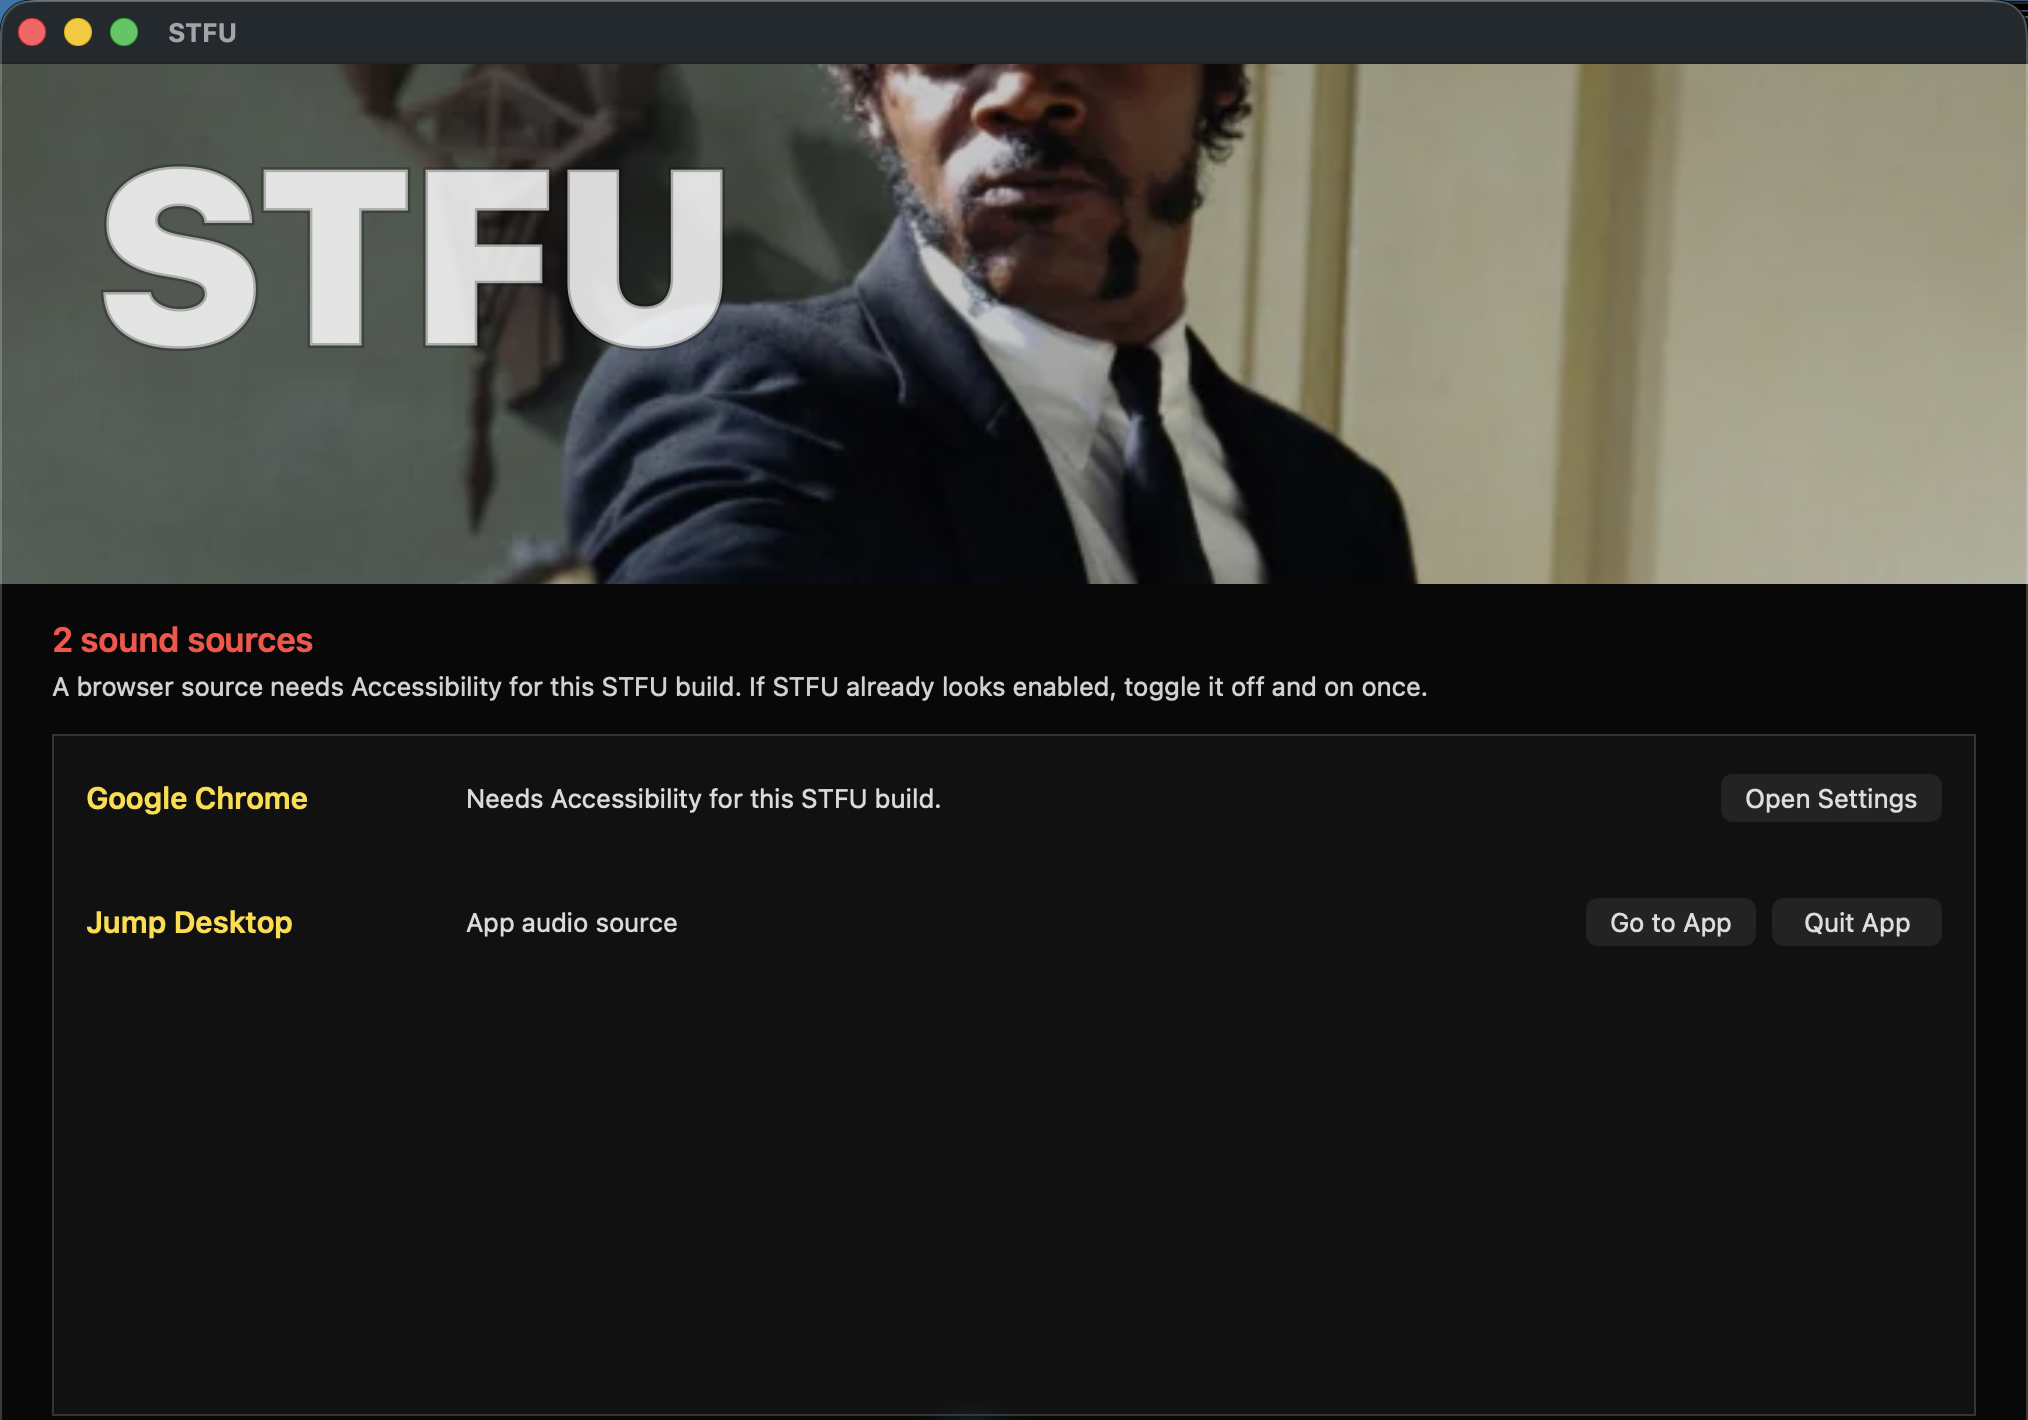
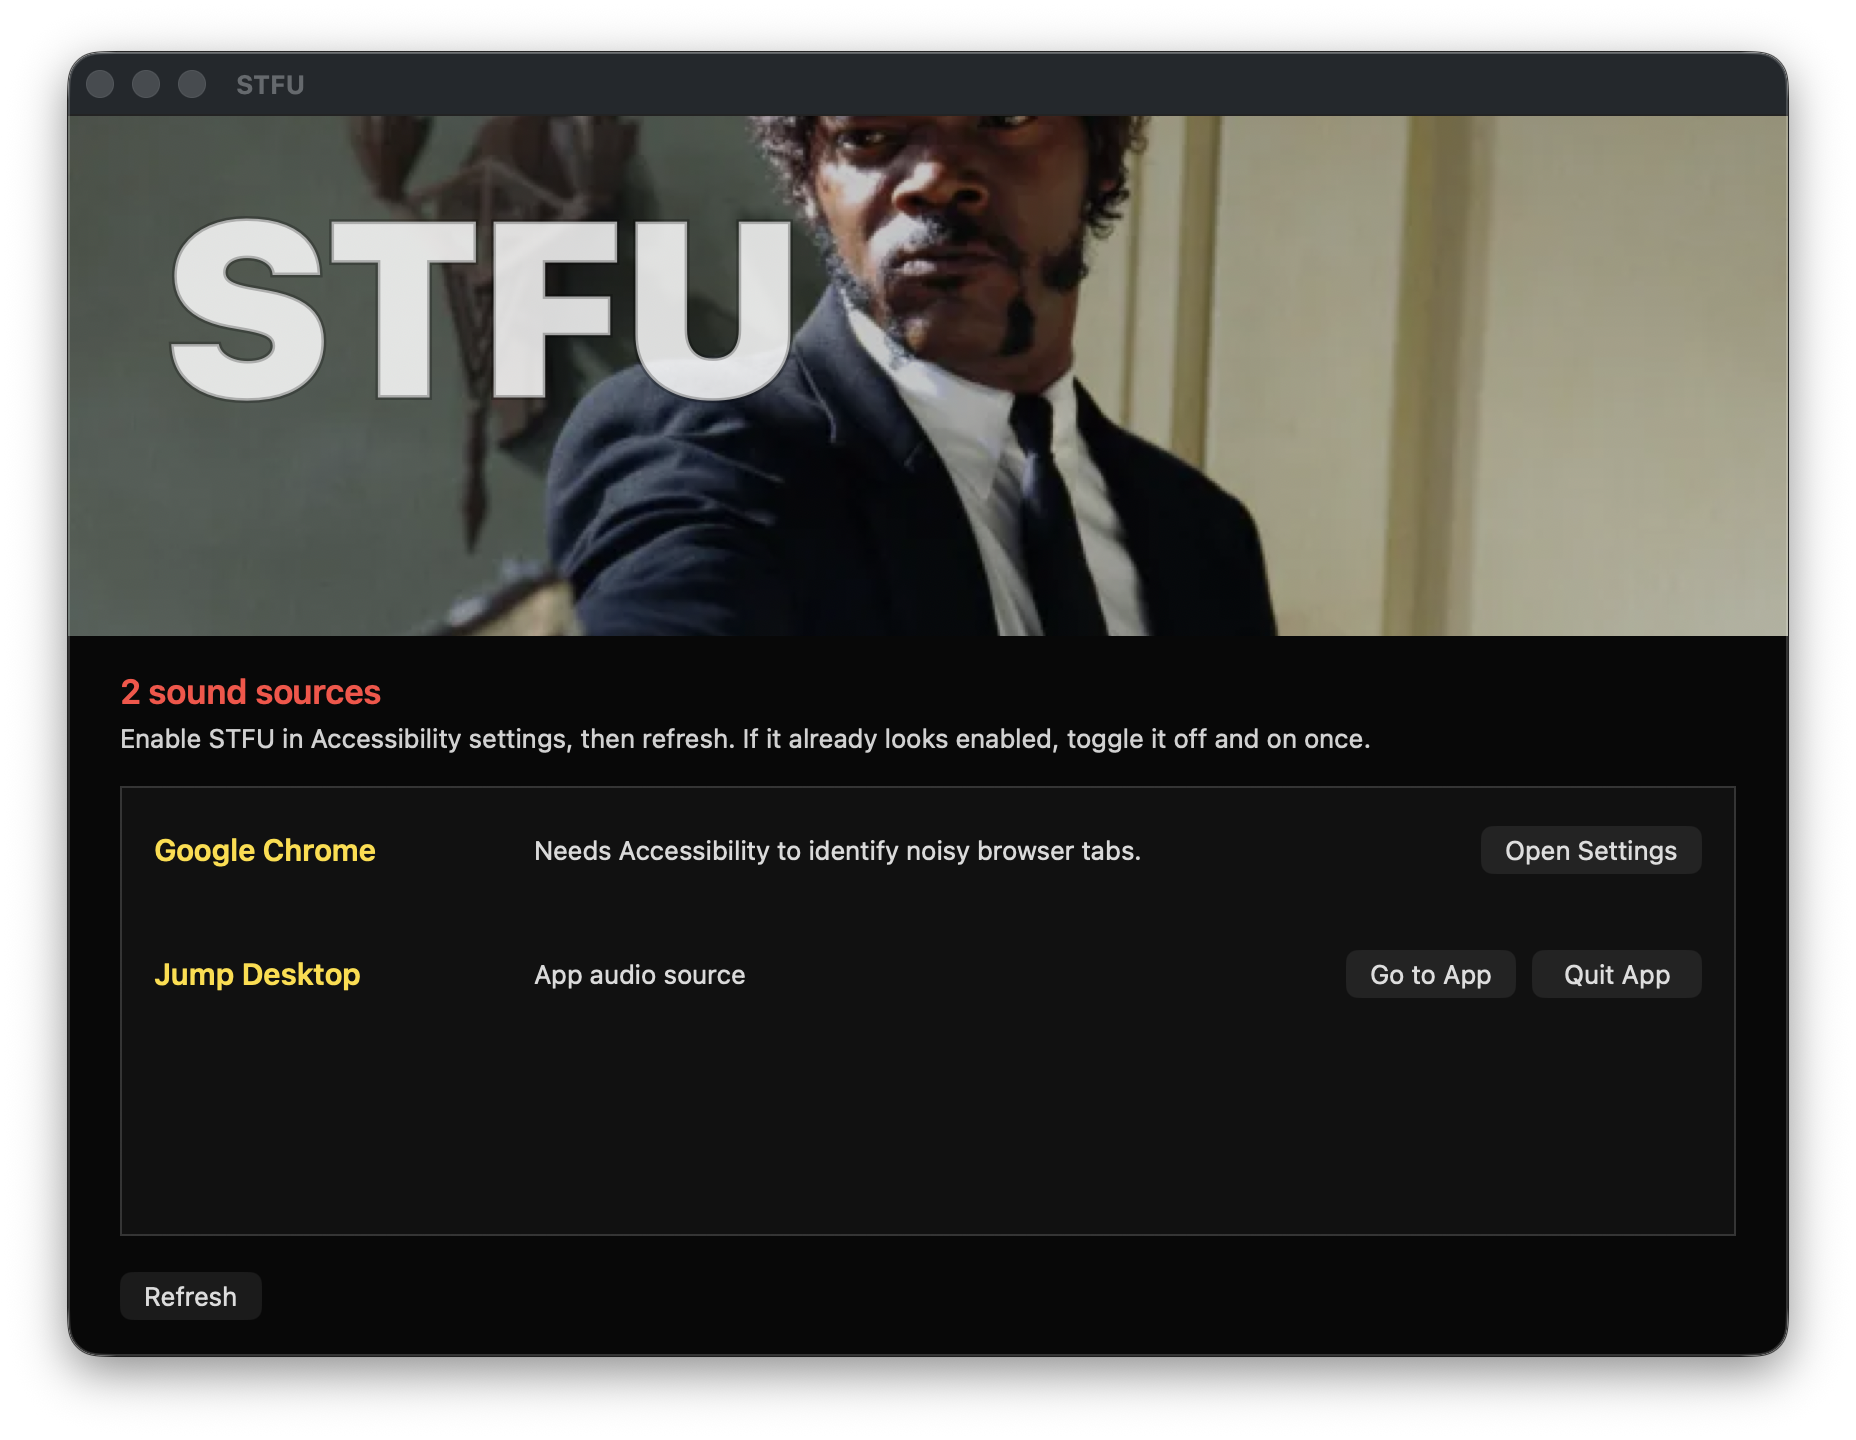
save

diff --git a/Sources/stfu/main.swift b/Sources/stfu/main.swift
@@ -18,14 +18,11 @@ struct CommandResult {
 
 enum STFUError: Error, CustomStringConvertible {
     case audioStatus(OSStatus, String)
-    case commandFailed(String)
 
     var description: String {
         switch self {
         case let .audioStatus(status, context):
             return "\(context): CoreAudio returned \(status)"
-        case let .commandFailed(message):
-            return message
         }
     }
 }
@@ -402,6 +399,29 @@ func runningChromiumApplication(for process: AudioProcess, bundleID: String) -> 
         return app
     }
     return runningApplication(bundleID: bundleID)
+}
+
+func isSafariRelated(_ process: AudioProcess) -> Bool {
+    if process.bundleID == "com.apple.Safari"
+        || process.bundleID?.hasPrefix("com.apple.Safari.") == true
+        || process.bundleID?.hasPrefix("com.apple.WebKit.") == true {
+        return true
+    }
+
+    var pid = process.pid
+    for _ in 0..<12 {
+        if let app = NSRunningApplication(processIdentifier: pid),
+           app.bundleIdentifier == "com.apple.Safari" {
+            return true
+        }
+
+        guard let parent = parentPID(of: pid), parent > 1, parent != pid else {
+            break
+        }
+        pid = parent
+    }
+
+    return false
 }
 
 func accessibilityTrusted(prompt: Bool = false) -> Bool {
@@ -825,10 +845,12 @@ func closeApplication(_ process: AudioProcess, dryRun: Bool) -> Bool {
 }
 
 func handleProcess(_ process: AudioProcess, options: Options) -> Bool {
-    if runningApplication(bundleID: "com.apple.Safari") != nil {
+    if runningApplication(bundleID: "com.apple.Safari") != nil, isSafariRelated(process) {
         if closeSafariTab(pid: process.pid, dryRun: options.dryRun) {
             return true
         }
+        fputs("Could not identify an audible Safari tab; leaving Safari untouched.\n", stderr)
+        return false
     }
 
     for app in chromiumApps where runningApplication(bundleID: app.bundleID) != nil {
@@ -1012,7 +1034,6 @@ enum OffenderKind {
 }
 
 final class SoundOffender {
-    let id = UUID()
     let name: String
     let detail: String
     let kind: OffenderKind
@@ -1024,19 +1045,26 @@ final class SoundOffender {
     }
 }
 
-func soundOffenders() -> [SoundOffender] {
-    let processes = (try? outputAudioProcesses()) ?? []
+func soundOffenders() throws -> [SoundOffender] {
+    let processes = try outputAudioProcesses()
     var offenders: [SoundOffender] = []
     var handledBrowserApps = Set<pid_t>()
 
     for process in processes {
-        if runningApplication(bundleID: "com.apple.Safari") != nil,
-           let safari = safariTabInfo(pid: process.pid) {
-            offenders.append(SoundOffender(
-                name: "Safari tab",
-                detail: "\(safari.title)\(safari.url.isEmpty ? "" : " - \(safari.url)")",
-                kind: .safariTab(process.pid)
-            ))
+        if let safariApp = runningApplication(bundleID: "com.apple.Safari"), isSafariRelated(process) {
+            if let safari = safariTabInfo(pid: process.pid) {
+                offenders.append(SoundOffender(
+                    name: "Safari tab",
+                    detail: "\(safari.title)\(safari.url.isEmpty ? "" : " - \(safari.url)")",
+                    kind: .safariTab(process.pid)
+                ))
+            } else {
+                offenders.append(SoundOffender(
+                    name: "Safari",
+                    detail: "Needs browser Automation permission to identify the noisy tab.",
+                    kind: .unresolvedBrowser(appName: "Safari", app: safariApp)
+                ))
+            }
             continue
         }
 
@@ -1076,7 +1104,7 @@ func soundOffenders() -> [SoundOffender] {
             } else {
                 offenders.append(SoundOffender(
                     name: chromium.name,
-                    detail: "Needs Accessibility for this STFU build.",
+                    detail: "Needs Accessibility to identify noisy browser tabs.",
                     kind: .blockedBrowser(appName: chromium.name)
                 ))
             }
@@ -1153,11 +1181,18 @@ final class SetupAppDelegate: NSObject, NSApplicationDelegate, NSTableViewDataSo
         return button
     }()
     private var offenders: [SoundOffender] = []
+    private var scanError: Error?
 
     func applicationDidFinishLaunching(_ notification: Notification) {
+        start()
+    }
+
+    func start() {
         NSApp.setActivationPolicy(.regular)
         NSApp.activate()
-        buildWindow()
+        if window == nil {
+            buildWindow()
+        }
         refreshStatus()
     }
 
@@ -1166,7 +1201,10 @@ final class SetupAppDelegate: NSObject, NSApplicationDelegate, NSTableViewDataSo
     }
 
     func applicationDidBecomeActive(_ notification: Notification) {
-        guard window != nil else { return }
+        guard window != nil else {
+            start()
+            return
+        }
         refreshStatus()
     }
 
@@ -1178,7 +1216,7 @@ final class SetupAppDelegate: NSObject, NSApplicationDelegate, NSTableViewDataSo
             defer: false
         )
         window.title = "STFU"
-        window.minSize = NSSize(width: 780, height: 520)
+        window.minSize = NSSize(width: 850, height: 520)
         window.center()
 
         let content = NSView()
@@ -1290,10 +1328,23 @@ final class SetupAppDelegate: NSObject, NSApplicationDelegate, NSTableViewDataSo
     }
 
     private func refreshStatus() {
-        offenders = soundOffenders()
+        do {
+            offenders = try soundOffenders()
+            scanError = nil
+        } catch {
+            offenders = []
+            scanError = error
+        }
         tableView.reloadData()
         emptyLabel.isHidden = !offenders.isEmpty
         closeAllButton.isHidden = offenders.filter(isClosable).count < 2
+
+        if let scanError {
+            statusLabel.stringValue = "Could not read audio sources."
+            statusLabel.textColor = stfuRed()
+            hintLabel.stringValue = "\(scanError)"
+            return
+        }
 
         if offenders.isEmpty {
             statusLabel.stringValue = "No active sound sources."
@@ -1312,7 +1363,7 @@ final class SetupAppDelegate: NSObject, NSApplicationDelegate, NSTableViewDataSo
         statusLabel.stringValue = "\(offenders.count) sound source\(offenders.count == 1 ? "" : "s")"
         statusLabel.textColor = stfuRed()
         if needsAccessibility {
-            hintLabel.stringValue = "A browser source needs Accessibility for this STFU build. If STFU already looks enabled, toggle it off and on once."
+            hintLabel.stringValue = "Enable STFU in Accessibility settings, then refresh. If it already looks enabled, toggle it off and on once."
         } else {
             hintLabel.stringValue = ""
         }
@@ -1527,7 +1578,7 @@ final class SetupAppDelegate: NSObject, NSApplicationDelegate, NSTableViewDataSo
     }
 
     private func closeNextOffender(allowedKeys: Set<String>, attempted: Set<String>) {
-        let current = soundOffenders().filter { offender in
+        let current = ((try? soundOffenders()) ?? []).filter { offender in
             isClosable(offender) && allowedKeys.contains(closeKey(for: offender))
         }
         guard let offender = current.first(where: { !attempted.contains(closeKey(for: $0)) }) else {
@@ -1548,8 +1599,8 @@ final class SetupAppDelegate: NSObject, NSApplicationDelegate, NSTableViewDataSo
         switch offender.kind {
         case let .safariTab(pid):
             return "safari:\(pid)"
-        case let .chromiumTab(appName, app, _, _):
-            return "chromium:\(appName):\(app.processIdentifier):\(offender.name):\(offender.detail)"
+        case let .chromiumTab(appName, app, window, tab):
+            return "chromium:\(appName):\(app.processIdentifier):\(CFHash(window)):\(CFHash(tab))"
         case let .unresolvedBrowser(appName, app):
             return "unresolved:\(appName):\(app.processIdentifier)"
         case let .app(process):
@@ -1567,7 +1618,7 @@ final class SetupAppDelegate: NSObject, NSApplicationDelegate, NSTableViewDataSo
 
         let alert = NSAlert()
         alert.messageText = "Quit \(offender.name)?"
-        alert.informativeText = "STFU will quit this app to stop its audio."
+        alert.informativeText = "STFU will ask this app to quit, and may terminate its audio process if it does not respond. Unsaved work in that app could be lost."
         alert.alertStyle = .warning
         alert.addButton(withTitle: "Quit App")
         alert.addButton(withTitle: "Cancel")
@@ -1587,7 +1638,7 @@ final class SetupAppDelegate: NSObject, NSApplicationDelegate, NSTableViewDataSo
 
         let alert = NSAlert()
         alert.messageText = "STFU everything?"
-        alert.informativeText = "This will close browser tabs and quit apps currently producing sound: \(visibleNames)\(suffix)."
+        alert.informativeText = "This will close browser tabs and quit apps currently producing sound. App quits may terminate audio processes and unsaved work could be lost: \(visibleNames)\(suffix)."
         alert.alertStyle = .warning
         alert.addButton(withTitle: "STFU Everything")
         alert.addButton(withTitle: "Cancel")
@@ -1604,11 +1655,14 @@ func shouldRunSetupApp() -> Bool {
         && isatty(STDOUT_FILENO) == 0
 }
 
+private var setupAppDelegate: SetupAppDelegate?
+
 @MainActor
 func runSetupApp() {
     let app = NSApplication.shared
-    let delegate = SetupAppDelegate()
-    app.delegate = delegate
+    setupAppDelegate = SetupAppDelegate()
+    app.delegate = setupAppDelegate
+    setupAppDelegate?.start()
     app.run()
 }
 

diff --git a/TEST_PLAN.md b/TEST_PLAN.md
@@ -191,7 +191,7 @@ Inspect the app at these window sizes:
 
 Check:
 
-- Header uses the Pulp-style artwork as the main visual and keeps Samuel visible.
+- Header uses the configured artwork as the main visual and keeps the subject visible.
 - STFU icon uses only the artwork plus large white `STFU` text, is recognizable at Dock/Finder sizes, and is not blurry.
 - Black/white artwork treatment remains readable in both Dark Mode and Light Mode.
 - Status text is funny but still clear.
@@ -206,11 +206,20 @@ Check:
 
 ## Permission State Tests
 
+Clean first run from the DMG:
+
+- Install STFU from the DMG/pkg into `/Applications`.
+- Launch `/Applications/STFU.app` before granting permissions.
+- Start one browser fixture and one app audio source.
+- Browser rows should explain the missing permission and offer `Open Settings`; app rows should still be visible.
+- Grant Accessibility, refresh, then allow any macOS Automation prompt when using `Go to Tab` or `Close Tab`.
+- If Automation is denied for Safari, STFU should show Safari as a browser permission/unresolved row and must not offer `Quit App`.
+
 Run with Accessibility disabled for STFU:
 
 - App should still open.
-- Chrome row should say STFU needs Accessibility access to identify the noisy tab.
-- Chrome row should show `Open Settings`, not `Quit App`.
+- Browser row should say STFU needs Accessibility access to identify noisy tabs.
+- Browser row should show `Open Settings`, not `Quit App`.
 - Non-browser audio sources should still be listed.
 - `stfu --doctor` should clearly report missing Accessibility permission.
 

diff --git a/README.md b/README.md
@@ -56,7 +56,9 @@ stfu --request-accessibility
 In the app:
 
 - `Go to Tab` / `Go to App`: jump to the noisy source.
-- `Close Tab` / `Quit App`: silence that source.
+- `Close Tab`: close only the noisy browser tab.
+- `Quit App`: asks before quitting the noisy app. Unsaved work in that app could be lost.
+- `STFU Everything`: asks before closing all noisy tabs and quitting noisy apps.
 - `Open Settings`: grant Accessibility when a browser needs it.
 - `Refresh`: rescan current audio sources.
 
@@ -109,7 +111,7 @@ Artifacts are written to:
 - `dist/STFU-$VERSION.pkg`
 - `dist/STFU-$VERSION.dmg`
 
-The default artwork is `assets/pulpfiction_new.webp`. To use different artwork:
+The default artwork is prototype user-provided art at `assets/pulpfiction_new.webp`. To use different artwork:
 
 ```sh
 ARTWORK_PATH=/path/to/image.webp scripts/package.sh
@@ -131,6 +133,18 @@ The local release script is the authoritative path for publishing a GitHub Relea
 
 ```sh
 VERSION=0.1.0 just release
+```
+
+Release publishing refuses the prototype artwork by default. Use cleared artwork:
+
+```sh
+ARTWORK_PATH=/path/to/cleared-art.webp VERSION=0.1.0 just release
+```
+
+For a private/internal release that intentionally uses the prototype artwork:
+
+```sh
+ALLOW_PROTOTYPE_ARTWORK=1 VERSION=0.1.0 just release
 ```
 
 If a tag already exists and you intentionally want to replace it:

diff --git a/AGENTS.md b/AGENTS.md
@@ -13,5 +13,6 @@
 
 - Use `just build`, `just package`, and `just verify` for local checks. `scripts/verify.sh` rebuilds artifacts by default; pass `VERIFY_EXISTING=1` only after a fresh package step.
 - Use `VERSION=x.y.z just release` as the local GitHub Release path. The GitHub Actions workflow builds and uploads CI artifacts only; it does not mutate releases.
+- Release packaging refuses the prototype artwork unless `ARTWORK_PATH` points at cleared artwork or `ALLOW_PROTOTYPE_ARTWORK=1` is set for a private/internal release.
 - Do not replace an existing tag unless the user explicitly wants that release replaced; then use `FORCE=1 VERSION=x.y.z just release`.
 - The default artwork is prototype user-provided artwork. Replace it before public redistribution unless the user confirms distribution rights.
